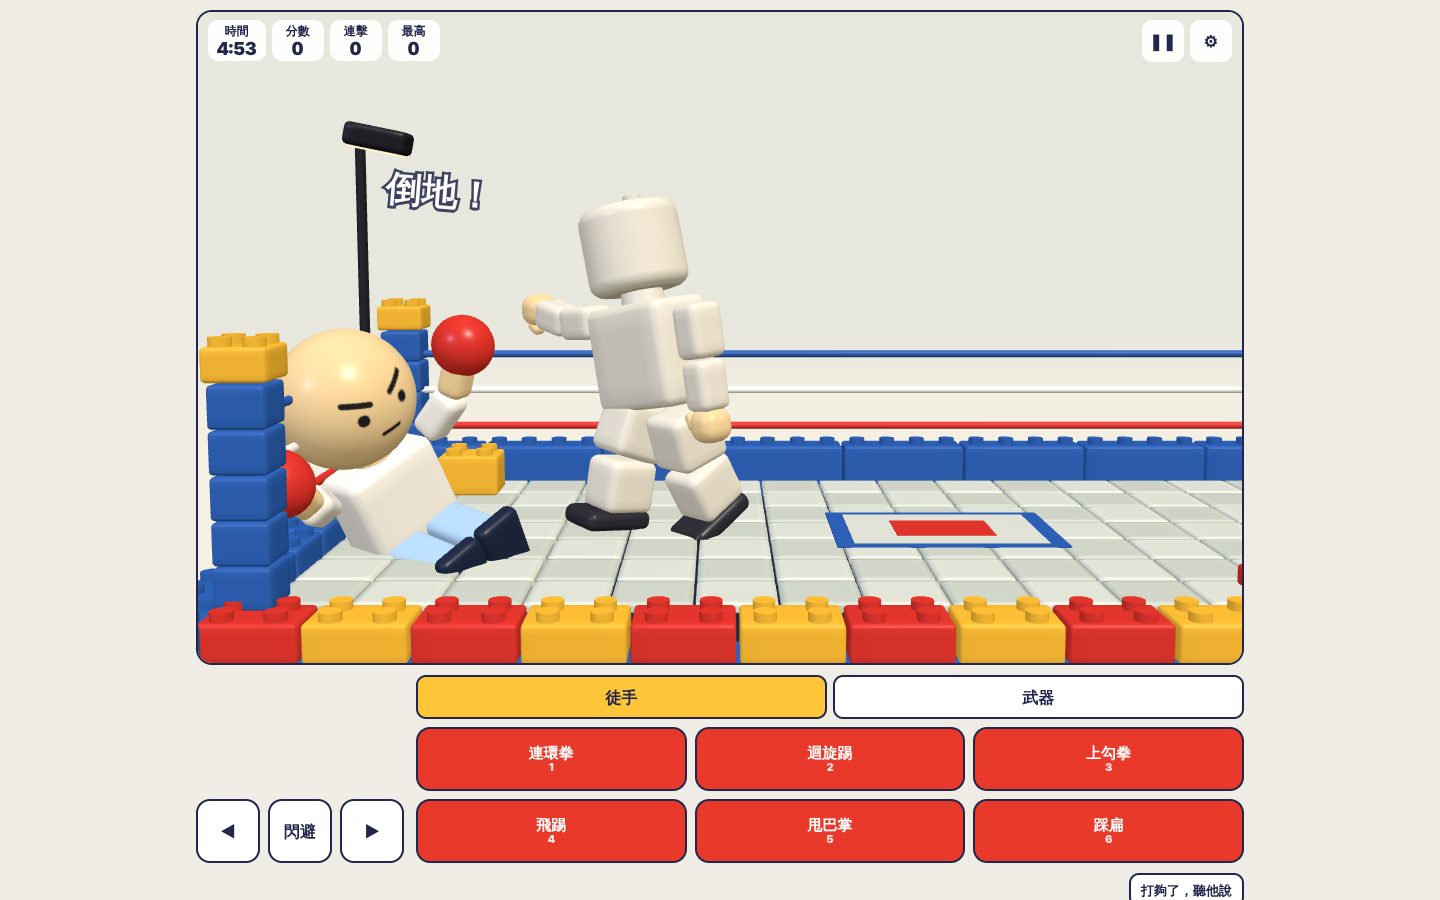
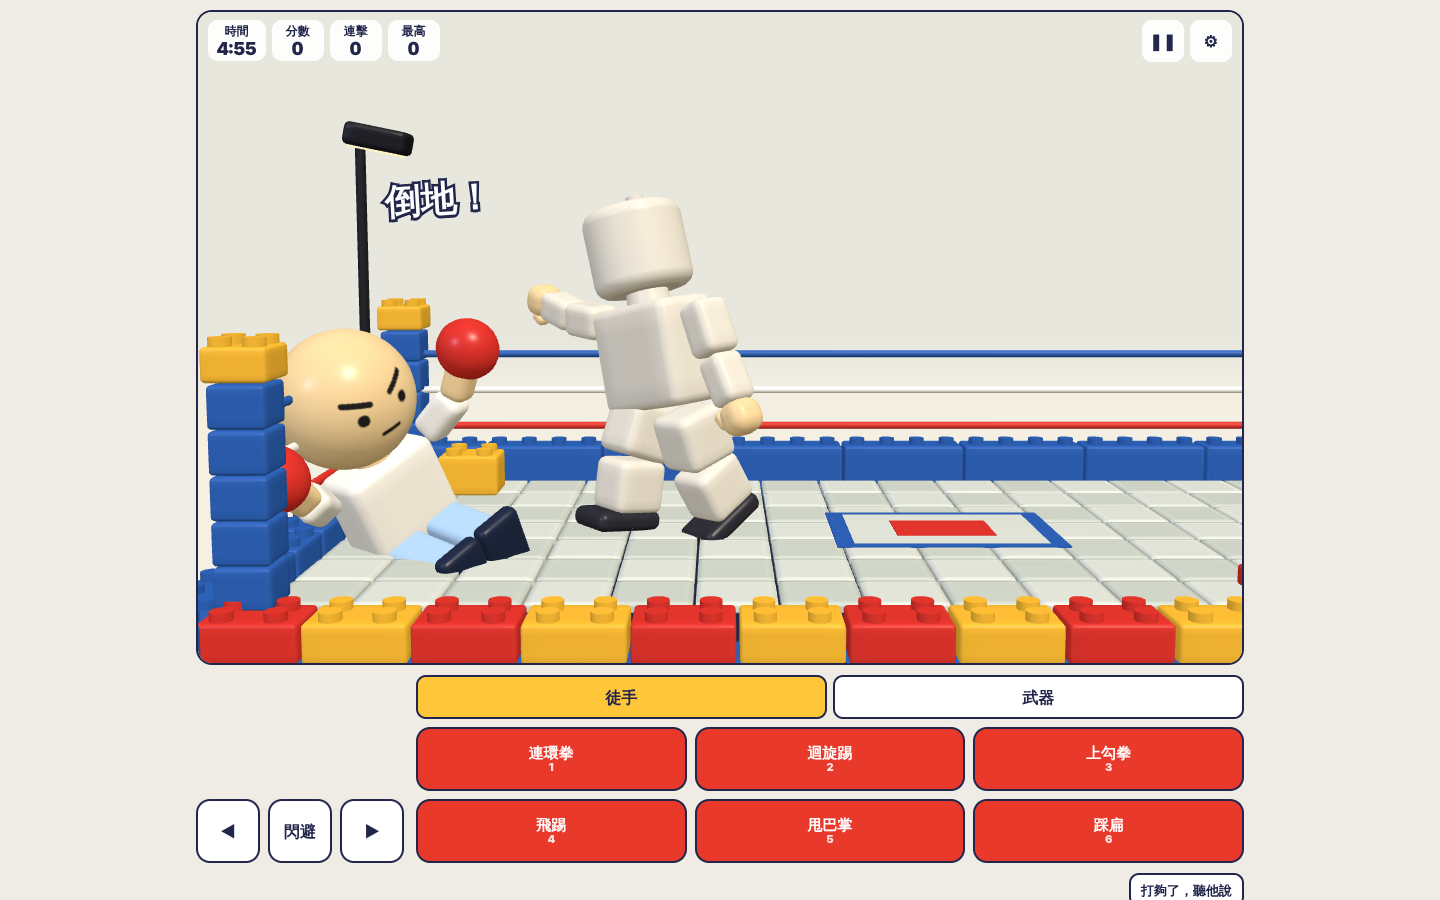
致命一擊擊倒後散在地上不組回；道歉時背景全黑、聚光燈照在積木人頭上，擂台與玩家退場
Claude-Session: https://claude.ai/code/session_01W9KMAiYuezKnkxaZ7ikoB8

diff --git a/src/game/battle/BattleController.ts b/src/game/battle/BattleController.ts
@@ -1,4 +1,4 @@
-import { Color, Fog, Vector3 } from 'three';
+import { Color, Fog, Vector3, type Object3D } from 'three';
 import { CAMERA, GAME } from '../../config/game.config';
 import { EFFECTS, JUGGLE } from '../../config/effects.config';
 import { AfterImages } from '../effects/afterimage';
@@ -11,6 +11,7 @@ import type { Difficulty } from '../../state/battle';
 import { prefersReducedMotion, settingsStore, vibrate } from '../../state/settings';
 import { ComicWords } from '../effects/comicWords';
 import { EnergyBeam } from '../effects/beam';
+import { StageSpot } from '../effects/spotlight';
 import { Particles } from '../effects/particles';
 import { EasyAI } from '../enemy/easyAI';
 import { BattleInput } from '../engine/input';
@@ -21,7 +22,7 @@ import { buildPlayer, PLAYER_HEAD_RADIUS } from '../player/playerModel';
 
 /** 玩家頭頂高度：軀幹底 1.75＋頸部 1.36＋球頭直徑 */
 const PLAYER_TOP = 1.75 + 1.36 + PLAYER_HEAD_RADIUS * 2;
-import { APOLOGY } from '../../config/dialogue.config';
+import { APOLOGY, APOLOGY_SPOT } from '../../config/dialogue.config';
 import { DialogueBubble } from '../dialogue/bubble';
 import { DialogueDirector, type DialogueEvent } from '../dialogue/director';
 import { ForgiveFx, LeaveFx } from '../ending/endingFx';
@@ -156,11 +157,14 @@ export class BattleController {
   private hitStop = 0;
   private ghosts: AfterImages;
   private ghostT = 0;
+  private arena: Object3D;
+  /** 道歉時的聚光燈 */
+  private spot: StageSpot | null = null;
+  private black = new Color('#000000');
   /** 困難模式成功閃避次數 */
   private dodges = 0;
   private early = false;
   private showT = 0;
-  private warmDuration = 0;
   private endingShow: EndingShow | null = null;
   private forgiveFx: ForgiveFx | null = null;
   private leaveFx: LeaveFx | null = null;
@@ -180,7 +184,8 @@ export class BattleController {
     this.bubble = new DialogueBubble(dom.bubble);
     this.host = new SceneHost(dom.stage, ARENA_BACKGROUND, 11, CAMERA.fov);
     this.host.scene.fog = new Fog(ARENA_BACKGROUND, 30, 60);
-    this.host.scene.add(buildArena());
+    this.arena = buildArena();
+    this.host.scene.add(this.arena);
     this.host.renderer.domElement.style.touchAction = 'none';
     this.puppet = new Puppet(paint);
     this.puppet.addTo(this.host.scene);
@@ -637,7 +642,8 @@ export class BattleController {
     this.shoes.clear();
     this.ghosts.clear();
     this.hitStop = 0;
-    this.puppet.forceReassemble();
+    // 致命一擊擊倒的積木人維持散在地上，道歉時才拼回來
+    if (!this.puppet.isScatterHeld) this.puppet.forceReassemble();
     this.puppet.clearStatus();
     this.puppet.setAiPose('idle', -1);
     this.dom.alert.hidden = true;
@@ -696,6 +702,8 @@ export class BattleController {
     pl.x = -side * FINISHER.standX;
     pl.facing = side;
     p.vx = 0;
+    // 擊倒後散在地上，不再組回
+    p.holdOnScatter = true;
     this.beam?.dispose();
     this.beam = new EnergyBeam(this.host.scene);
     this.fin = { step: 0, shot: -1, side, aura: 0, koAt: -1, koT: -1 };
@@ -848,6 +856,10 @@ export class BattleController {
     this.camOverride = null;
     this.player.script = null;
     this.player.powerUp = this.player.thrust = 0;
+    this.player.hidden = false;
+    this.arena.visible = true;
+    this.spot?.dispose();
+    this.spot = null;
     this.beam?.dispose();
     this.beam = null;
     this.player.rig.root.position.z = 0;
@@ -870,13 +882,16 @@ export class BattleController {
     this.dom.alert.hidden = true;
     this.resetAi();
     const p = this.puppet;
-    p.forceReassemble();
+    if (p.isScatterHeld) {
+      // 致命一擊散在地上的零件先飛回拼好，再走到中央跪下
+      p.releaseScatter();
+      this.showT = -(PUPPET.scatter.returnTime + 0.3);
+    } else p.forceReassemble();
     p.clearStatus();
     p.setPoseMode('stand');
     p.setAiPose('idle', -1);
     p.setStance(false);
     this.walkFrom = { puppet: p.x, player: this.player.x };
-    this.warmDuration = APOLOGY.warmTime + (this.early ? APOLOGY.earlyExtraWarm : 0);
     this.emitHud(true);
   }
 
@@ -915,16 +930,25 @@ export class BattleController {
       const w = smooth(t / APOLOGY.walkTime);
       if (this.phase === 'apology') {
         p.x = this.walkFrom.puppet + (0 - this.walkFrom.puppet) * w;
-        pl.x = this.walkFrom.player + (-4 - this.walkFrom.player) * w;
         if (t >= APOLOGY.walkTime) p.setPoseMode('kneel');
-        this.setWarmth(Math.min(1, t / this.warmDuration));
-        this.host.lights.hemi.intensity *= 1 - 0.2 * Math.min(1, t / this.warmDuration);
       } else {
         p.setFade(Math.max(0, 1 - t / 1.2));
-        this.setWarmth(1);
-        this.host.lights.hemi.intensity *= 0.6;
       }
-      this.camOverride = { x: p.x * 0.4 - 0.6, dist: 13, lookY: 2.3, camY: 3.4, minHalfW: 3.6 };
+      // 背景全黑、擂台與玩家退場，只剩一盞燈從上方照在積木人頭上
+      const S = APOLOGY_SPOT;
+      const dark = this.phase === 'worthy' ? 1 : smooth(Math.max(0, t) / S.blackout);
+      this.setWarmth(0);
+      bg.copy(this.bgCool).lerp(this.black, dark);
+      const L = this.host.lights;
+      const keep = 1 - (1 - S.ambient) * dark;
+      L.hemi.intensity *= keep;
+      L.key.intensity *= 1 - dark;
+      L.fill.intensity *= 1 - dark;
+      this.arena.visible = dark < 1;
+      pl.hidden = dark >= 1;
+      this.spot ??= new StageSpot(this.host.scene);
+      this.spot.update(p.x, p.lift + headCenterY(), smooth((Math.max(0, t) - 0.2) / S.blackout));
+      this.camOverride = { x: p.x, dist: 11.5, lookY: 2.5, camY: 3.4, minHalfW: 3.2 };
     } else if (this.phase === 'ending') {
       const u = Math.min(1, t / APOLOGY.endingTime);
       const show = this.endingShow;

diff --git a/src/game/effects/spotlight.ts b/src/game/effects/spotlight.ts
@@ -1,0 +1,79 @@
+import {
+  AdditiveBlending, CanvasTexture, CircleGeometry, ConeGeometry, Group, Mesh, MeshBasicMaterial, Object3D, SpotLight, SRGBColorSpace,
+} from 'three';
+import { APOLOGY_SPOT } from '../../config/dialogue.config';
+import { srgb } from '../three/color';
+
+function poolTexture(): CanvasTexture | null {
+  const cv = document.createElement('canvas');
+  cv.width = cv.height = 128;
+  const c = cv.getContext('2d');
+  if (!c) return null;
+  const g = c.createRadialGradient(64, 64, 0, 64, 64, 64);
+  g.addColorStop(0, 'rgba(255,236,200,1)');
+  g.addColorStop(0.55, 'rgba(255,220,170,0.55)');
+  g.addColorStop(1, 'rgba(255,210,160,0)');
+  c.fillStyle = g;
+  c.fillRect(0, 0, 128, 128);
+  const t = new CanvasTexture(cv);
+  t.colorSpace = SRGBColorSpace;
+  return t;
+}
+
+/**
+ * 道歉時的舞台聚光燈：一盞燈從正上方（略偏前方）照在積木人頭上，
+ * 加上看得見的光柱與地上的光圈。背景全黑時才看得出光的形狀。
+ */
+export class StageSpot {
+  private readonly root = new Group();
+  private readonly light: SpotLight;
+  private readonly target = new Object3D();
+  private readonly beam: Mesh<ConeGeometry, MeshBasicMaterial>;
+  private readonly pool: Mesh<CircleGeometry, MeshBasicMaterial>;
+
+  constructor(parent: Object3D) {
+    const S = APOLOGY_SPOT;
+    this.light = new SpotLight(srgb(S.color), 0, 0, S.angle, S.penumbra, 0);
+    this.light.target = this.target;
+    this.root.add(this.light, this.target);
+    const beamH = S.height;
+    const r = Math.tan(S.angle) * beamH * 0.8;
+    this.beam = new Mesh(
+      new ConeGeometry(r, beamH, 40, 1, true),
+      new MeshBasicMaterial({ color: srgb(S.color), transparent: true, opacity: 0, blending: AdditiveBlending, depthWrite: false, toneMapped: false }),
+    );
+    this.beam.position.y = beamH / 2;
+    this.root.add(this.beam);
+    const tex = poolTexture();
+    this.pool = new Mesh(
+      new CircleGeometry(S.poolRadius, 48),
+      new MeshBasicMaterial({ map: tex, color: tex ? 0xffffff : srgb(S.color), transparent: true, opacity: 0, blending: AdditiveBlending, depthWrite: false }),
+    );
+    this.pool.rotation.x = -Math.PI / 2;
+    this.pool.position.y = 0.03;
+    this.root.add(this.pool);
+    parent.add(this.root);
+  }
+
+  /** x＝積木人位置、headY＝頭的高度、k＝亮度 0～1 */
+  update(x: number, headY: number, k: number) {
+    const S = APOLOGY_SPOT;
+    this.light.position.set(x, S.height, S.forward);
+    this.target.position.set(x, headY, 0);
+    this.light.intensity = S.intensity * k;
+    this.beam.position.x = x;
+    this.beam.material.opacity = S.beamOpacity * k;
+    this.pool.position.x = x;
+    this.pool.material.opacity = S.poolOpacity * k;
+  }
+
+  dispose() {
+    this.root.removeFromParent();
+    this.light.dispose();
+    this.beam.geometry.dispose();
+    this.beam.material.dispose();
+    this.pool.geometry.dispose();
+    this.pool.material.map?.dispose();
+    this.pool.material.dispose();
+  }
+}

diff --git a/src/game/puppet/scatter.ts b/src/game/puppet/scatter.ts
@@ -32,6 +32,9 @@ export class Scatter {
   private items: Item[];
   private done = false;
 
+  /**
+   * hold＝散了就躺在地上不組回（致命一擊擊倒），之後呼叫 release() 才飛回原位。
+   */
   constructor(
     meshes: Object3D[],
     private readonly world: Object3D,
@@ -39,6 +42,7 @@ export class Scatter {
     strength: number,
     reduced: boolean,
     rand: () => number = Math.random,
+    private hold = false,
   ) {
     const scale = reduced ? C.reducedMotionScale : 1;
     world.updateMatrixWorld(true);
@@ -76,10 +80,23 @@ export class Scatter {
     return this.done;
   }
 
+  get held() {
+    return this.hold;
+  }
+
+  /** 開始飛回原位（returnTime 內組好）。 */
+  release() {
+    if (!this.hold) return;
+    this.hold = false;
+    this.t = C.flyTime;
+  }
+
   /** 推進時間；回傳 true 表示已組回完成。 */
   update(dt: number): boolean {
     if (this.done) return true;
     this.t += dt;
+    // 擊倒：一直停在飛散階段，落地後慢慢停住
+    if (this.hold) this.t = Math.min(this.t, C.flyTime - 0.001);
     if (this.t < C.flyTime) {
       for (const it of this.items) {
         const m = it.mesh;
@@ -96,6 +113,14 @@ export class Scatter {
           it.ang.multiplyScalar(C.spinFriction);
         }
         m.position.z = Math.max(C.zMin, Math.min(C.zMax, m.position.z));
+        if (this.hold && m.position.y <= C.floorY + 0.01) {
+          // 躺在地上：滑動與翻滾逐漸停下
+          const f = Math.pow(0.04, dt);
+          it.vel.x *= f;
+          it.vel.z *= f;
+          it.ang.multiplyScalar(f);
+          if (Math.abs(it.vel.y) < 0.6) it.vel.y = 0;
+        }
       }
       return false;
     }

diff --git a/tests/unit/scatter.test.ts b/tests/unit/scatter.test.ts
@@ -44,6 +44,31 @@ describe('積木噴飛再組回', () => {
     });
   });
 
+  it('致命一擊擊倒（hold）：散了就躺在地上不組回，release 後才飛回原位', () => {
+    const { world, body, parts } = rig();
+    const home = parts.map((p) => p.position.clone());
+    const sc = new Scatter(parts, world, new Vector3(2, 2.4, 0), 1, false, seeded(), true);
+    for (let i = 0; i < 60 * 10; i++) expect(sc.update(1 / 60)).toBe(false);
+    expect(parts.every((p) => p.parent === world)).toBe(true);
+    // 都落在地上、停下來了
+    parts.forEach((p) => expect(p.position.y).toBeLessThan(PUPPET.scatter.floorY + 0.05));
+    const before = parts.map((p) => p.position.clone());
+    sc.update(1 / 60);
+    parts.forEach((p, i) => expect(p.position.distanceTo(before[i])).toBeLessThan(0.02));
+    sc.release();
+    let t = 0;
+    let done = false;
+    while (!done && t < 3) {
+      done = sc.update(1 / 60);
+      t += 1 / 60;
+    }
+    expect(done).toBe(true);
+    expect(t).toBeCloseTo(PUPPET.scatter.returnTime, 1);
+    parts.forEach((p, i) => {
+      expect(p.parent).toBe(body);
+      expect(p.position.distanceTo(home[i])).toBeLessThan(1e-9);
+    });
+  });
   it('飛散中零件不會掉到地板以下', () => {
     const { world, parts } = rig();
     const sc = new Scatter(parts, world, new Vector3(2, 2.4, 0), 1, false, seeded());

diff --git a/src/game/puppet/Puppet.ts b/src/game/puppet/Puppet.ts
@@ -534,15 +534,30 @@ export class Puppet {
     this.decals.add(this.meshes.head, 'silly', 1.0, 0.92, d / 2, life, [0, 0]);
   }
 
+  /** 下一次噴飛散了就不組回（致命一擊擊倒），直到 releaseScatter()。 */
+  holdOnScatter = false;
+
   /** 噴飛再組回。 */
   explode(strength: number, reduced: boolean) {
     if (this.scatter || !this.world) return;
     this.world.updateMatrixWorld(true);
-    this.scatter = new Scatter(this.flyables, this.world, this.center(), strength, reduced);
+    this.scatter = new Scatter(this.flyables, this.world, this.center(), strength, reduced, Math.random, this.holdOnScatter);
+  }
+
+  /** 散在地上不組回中 */
+  get isScatterHeld() {
+    return !!this.scatter?.held;
+  }
+
+  /** 散在地上的零件開始飛回組好 */
+  releaseScatter() {
+    this.holdOnScatter = false;
+    this.scatter?.release();
   }
 
   /** 立刻把所有零件歸位。 */
   forceReassemble() {
+    this.holdOnScatter = false;
     if (!this.scatter) return;
     this.scatter.reassemble();
     this.scatter = null;

diff --git a/src/game/player/Player.ts b/src/game/player/Player.ts
@@ -30,6 +30,8 @@ export class Player {
   /** 困難模式：被擊倒（躺下再起身）與起身後的無敵時間 */
   down = false;
   invuln = 0;
+  /** 演出時退場（道歉時不出場） */
+  hidden = false;
   /** 空中連擊：跳起追打的高度（目前、目標） */
   airLift = 0;
   airTarget = 0;
@@ -422,7 +424,7 @@ export class Player {
       g.scale.set(o ? 0.5 : 1, o ? 1.35 : 1.05, o ? 1.2 : 1.1);
     }
     // 起身後無敵：閃爍
-    L.root.visible = !(this.invuln > 0 && this.stun <= 0 && Math.floor(this.bob * 12) % 2 === 0);
+    L.root.visible = !this.hidden && !(this.invuln > 0 && this.stun <= 0 && Math.floor(this.bob * 12) % 2 === 0);
     // 手上的武器：棍棒、鐵錘整招都拿著；投擲物出手後就不在手上
     const id = a?.move.id;
     const before = !!a && a.t < a.move.windup;

diff --git a/src/config/dialogue.config.ts b/src/config/dialogue.config.ts
@@ -32,3 +32,19 @@ export const APOLOGY = {
   /** 「現在」分數達此值時顯示低調支援提示 */
   supportThreshold: 7,
 } as const;
+
+/** 道歉時的舞台：背景轉黑所需時間、聚光燈（顏色、角度、柔邊、高度、往前偏移、亮度、光柱與光圈） */
+export const APOLOGY_SPOT = {
+  blackout: 0.9,
+  /** 黑掉之後保留一點點環境光，看得出積木人的輪廓 */
+  ambient: 0.06,
+  color: '#FFE6BF',
+  angle: 0.3,
+  penumbra: 0.55,
+  height: 12,
+  forward: 3.2,
+  intensity: 7,
+  beamOpacity: 0.11,
+  poolRadius: 2.4,
+  poolOpacity: 0.55,
+} as const;

diff --git a/PLAN.md b/PLAN.md
@@ -282,3 +282,5 @@ interface HitEvent { hitId: HitId; moveId: MoveId; segment: number; at: number; 
 - 連擊數：2 連擊以上在畫面右側跳出大字「N 連擊！」，10 連擊變金色、20 連擊變紅色並抖動。
 - 殘影：出招有效期間每 0.028 秒複製拳套／雙腿／棍棒／鐵錘一份淡藍色半透明影子，0.22 秒淡出（共用幾何，不另外建模）。
 - 數值都在 `effects.config.ts`（EFFECTS、JUGGLE）。
+- 致命一擊擊倒後：積木人散在地上不組回（Scatter 的 hold 模式，零件落地後慢慢停住）；進入道歉時零件才飛回拼好，接著走到中央跪下（使用者選擇）。
+- 道歉時的舞台：0.9 秒內背景轉黑、擂台與玩家積木人退場，只剩一盞聚光燈從上方（略偏前方，臉才看得到）照在積木人頭上，加上看得見的光柱與地上的光圈；保留 6% 環境光讓輪廓看得出來。「值得聽到」時積木人在聚光燈下淡出。結局演出時擂台、玩家、燈光恢復。原本「道歉時燈光轉暖」改由這個黑場聚光燈取代（變更 SPEC 第 14 節轉場）。數值在 `APOLOGY_SPOT`。
